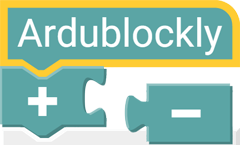
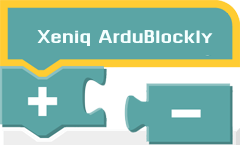
remove settings

Changed region(s): [[0.0583, 0.1103, 0.9333, 0.3862]]

diff --git a/ardublockly/index.html b/ardublockly/index.html
@@ -7,15 +7,15 @@
   <link rel="icon" href="img/favicon.ico">
   <title class="translatable_title">Ardublockly</title>
 
-  <!-- Materialize, Prettify, and Ardublockly CSS -->
+  <!-- Materialize, Prettify, and ArduArdublockly app not runningblockly CSS -->
   <link rel="stylesheet" href="materialize/materialize.css" media="screen,projection">
   <link rel="stylesheet" href="prettify/arduino.css">
   <link rel="stylesheet" href="ardublockly.css" media="screen,projection">
 
   <!-- Ardublockly - These three files contain the compress version -->
-  <!--script src="../blockly/blockly_compressed.js"></script>
-  <script src="../blockly/blocks_compressed.js"></script>
-  <script src="../blockly/arduino_compressed.js"></script-->
+<!--  <script src="../blockly/blockly_compressed.js"></script>-->
+<!--  <script src="../blockly/blocks_compressed.js"></script>-->
+<!--  <script src="../blockly/arduino_compressed.js"></script>-->
   <!-- To use the uncompressed version comment out the above and comment in the ones below -->
   <script src="../blockly/blockly_uncompressed.js"></script>
   <script src="../blockly/blocks/logic.js"></script>
@@ -69,7 +69,7 @@
     <div class="nav-wrapper container">
       <a class="show-on-large button-collapse" href="#" data-activates="slide-out" id="button-collapse"><i class="mdi-navigation-menu"></i></a>
       <a id="logo-container" class="brand-logo">
-        <span class="app_title translatable_title">Ardublockly:</span>
+        <span class="app_title translatable_title">Xeniq Ardublockly:</span>
         <!-- Sketch name editable text field -->
         <span class="sketch_name_wrapper">
           <i class="mdi-image-edit sketch_name_icon"></i>
@@ -93,26 +93,26 @@
         <li id="menu_load"><a href="#"><span class="translatable_open">Open</span><i class="mdi-file-file-upload left"></i></a></li>
         <li id="menu_save"><a href="#"><span class="translatable_save">Save</span><i class="mdi-file-file-download left"></i></a></li>
         <li id="menu_delete"><a href="#"><span class="translatable_deleteAll">Delete All</span><i class="mdi-action-delete left"></i></a></li>
-        <li id="menu_settings"><a href="#"><span class="translatable_settings">Settings</span><i class="mdi-action-settings left"></i></a></li>
-        <li id="menu_bug"><a href="https://github.com/carlosperate/ardublockly/wiki" target="_blank"><span class="translatable_documentation">Documentation</span><i class="mdi-action-help left"></i></a></li>
-        <li id="menu_bug"><a href="http://github.com/carlosperate/ardublockly/issues" target="_blank"><span class="translatable_reportBug">Report Bug</span><i class="mdi-action-bug-report left"></i></a></li>
+<!--        <li id="menu_settings"><a href="#"><span class="translatable_settings">Settings</span><i class="mdi-action-settings left"></i></a></li>-->
+<!--        <li id="menu_bug"><a href="https://github.com/carlosperate/ardublockly/wiki" target="_blank"><span class="translatable_documentation">Documentation</span><i class="mdi-action-help left"></i></a></li>-->
+<!--        <li id="menu_bug"><a href="http://github.com/carlosperate/ardublockly/issues" target="_blank"><span class="translatable_reportBug">Report Bug</span><i class="mdi-action-bug-report left"></i></a></li>-->
       </ul>
-    <li class="no-padding">
-      <ul class="collapsible collapsible-accordion">
-        <li>
-          <div class="collapsible-header"><span class="translatable_examples">Examples</span><i class="mdi-navigation-arrow-drop-down"></i></div>
-          <div class="collapsible-body">
-            <ul>
-              <li id="menu_example_1"><a href="#!">Blink</a></li>
-              <li id="menu_example_2"><a href="#!">Serial print</a></li>
-              <li id="menu_example_3"><a href="#!">Serial repeat game</a></li>
-              <li id="menu_example_4"><a href="#!">Servo knob</a></li>
-              <li id="menu_example_5"><a href="#!">Stepper knob</a></li>
-            </ul>
-          </div>
-        </li>
-      </ul>
-    </li>
+<!--    <li class="no-padding">-->
+<!--      <ul class="collapsible collapsible-accordion">-->
+<!--        <li>-->
+<!--          <div class="collapsible-header"><span class="translatable_examples">Examples</span><i class="mdi-navigation-arrow-drop-down"></i></div>-->
+<!--          <div class="collapsible-body">-->
+<!--            <ul>-->
+<!--              <li id="menu_example_1"><a href="#!">Blink</a></li>-->
+<!--              <li id="menu_example_2"><a href="#!">Serial print</a></li>-->
+<!--              <li id="menu_example_3"><a href="#!">Serial repeat game</a></li>-->
+<!--              <li id="menu_example_4"><a href="#!">Servo knob</a></li>-->
+<!--              <li id="menu_example_5"><a href="#!">Stepper knob</a></li>-->
+<!--            </ul>-->
+<!--          </div>-->
+<!--        </li>-->
+<!--      </ul>-->
+<!--    </li>-->
     <li class="no-padding side-menu-end">&nbsp;</li>
   </ul>
 
@@ -200,20 +200,20 @@
   </div>
 
   <!-- IDE Output content -->
-  <div class="ide_output_wrapper">
-    <ul class="collapsible ide_output_collapsible" data-collapsible="expandable">
-      <li>
-        <div id="ide_output_collapsible_header" class="collapsible-header ide_output_header_normal">
-          <i class="mdi-action-swap-vert Medium" style="font-size: 2.2rem;"></i>
-          <span class="translatable_arduinoOpMainTitle">Arduino IDE output</span>
-        </div>
-        <div class="collapsible-body">
-          <div id="content_ide_output" class="content"></div>
-        </div>
-      </li>
-    </ul>
-  </div>
-  <div id="ide_output_spacer"></div>
+<!--  <div class="ide_output_wrapper">-->
+<!--    <ul class="collapsible ide_output_collapsible" data-collapsible="expandable">-->
+<!--      <li>-->
+<!--        <div id="ide_output_collapsible_header" class="collapsible-header ide_output_header_normal">-->
+<!--          <i class="mdi-action-swap-vert Medium" style="font-size: 2.2rem;"></i>-->
+<!--          <span class="translatable_arduinoOpMainTitle">Arduino IDE output</span>-->
+<!--        </div>-->
+<!--        <div class="collapsible-body">-->
+<!--          <div id="content_ide_output" class="content"></div>-->
+<!--        </div>-->
+<!--      </li>-->
+<!--    </ul>-->
+<!--  </div>-->
+<!--  <div id="ide_output_spacer"></div>-->
 
   <!-- Settings: Displayed as a Materialize Modal -->
   <div id="settings_dialog" class="modal modal-fixed-footer">
@@ -293,22 +293,22 @@
   </div>
 
   <!-- Local Modal to be shown if Ardublockly Server is not running. -->
-  <div id="not_running_dialog" class="modal">
-    <div class="modal-content">
-      <div>
-        <h4 id="gen_alert_title"><span class="translatable_noServerTitle">Ardublockly app not running</span></h4>
-      </div>
-      <div class="translatable_noServerBody">
-        <p>For all the Ardublockly features to be enabled, the Ardublockly desktop application must be running locally on your computer.</p>
-        <p>If you are using an online version you will not be able to configure the settings nor load the blocks code into an Arduino.</p>
-        <p>Installation instruction can be found in the <a href="https://github.com/carlosperate/ardublockly">Ardublockly repository</a>.</p>
-        <p>If you have Ardublockly already installed, make sure the application is running correctly.</p>
-      </div>
-    </div>
-    <div class="modal-footer">
-      <a id="gen_alert_ok_link" href="#" class="waves-effect btn-flat modal-close"><span class="translatable_okay">Okay</span></a>
-    </div>
-  </div>
+<!--  <div id="not_running_dialog" class="modal">-->
+<!--    <div class="modal-content">-->
+<!--      <div>-->
+<!--        <h4 id="gen_alert_title"><span class="translatable_noServerTitle">Ardublockly app not running</span></h4>-->
+<!--      </div>-->
+<!--      <div class="translatable_noServerBody">-->
+<!--        <p>For all the Ardublockly features to be enabled, the Ardublockly desktop application must be running locally on your computer.</p>-->
+<!--        <p>If you are using an online version you will not be able to configure the settings nor load the blocks code into an Arduino.</p>-->
+<!--        <p>Installation instruction can be found in the <a href="https://github.com/carlosperate/ardublockly">Ardublockly repository</a>.</p>-->
+<!--        <p>If you have Ardublockly already installed, make sure the application is running correctly.</p>-->
+<!--      </div>-->
+<!--    </div>-->
+<!--    <div class="modal-footer">-->
+<!--      <a id="gen_alert_ok_link" href="#" class="waves-effect btn-flat modal-close"><span class="translatable_okay">Okay</span></a>-->
+<!--    </div>-->
+<!--  </div>-->
 
   <!-- Desktop version of Ardublockly JS, needs to be loaded first. -->
   <script src="ardublockly_desktop.js"></script>

diff --git a/ardublockly/ardublockly.js b/ardublockly/ardublockly.js
@@ -28,7 +28,7 @@ Ardublockly.init = function() {
 
   // Hackish way to check if not running locally
   if (document.location.hostname != 'localhost') {
-    Ardublockly.openNotConnectedModal();
+//    Ardublockly.openNotConnectedModal();
     console.log('Offline app modal opened as non localhost host name found: ' +
                 document.location.hostname)
   }
@@ -54,31 +54,7 @@ Ardublockly.bindActionFunctions = function() {
     Ardublockly.discardAllBlocks();
     $('.button-collapse').sideNav('hide');
   });
-  Ardublockly.bindClick_('menu_settings', function() {
-    Ardublockly.openSettings();
-    $('.button-collapse').sideNav('hide');
-  });
-  Ardublockly.bindClick_('menu_example_1', function() {
-    Ardublockly.loadServerXmlFile('../examples/blink.xml');
-    $('.button-collapse').sideNav('hide');
-  });
-  Ardublockly.bindClick_('menu_example_2', function() {
-    Ardublockly.loadServerXmlFile('../examples/serial_print_ascii.xml');
-    $('.button-collapse').sideNav('hide');
-  });
-  Ardublockly.bindClick_('menu_example_3', function() {
-    Ardublockly.loadServerXmlFile('../examples/serial_repeat_game.xml');
-    $('.button-collapse').sideNav('hide');
-  });
-  Ardublockly.bindClick_('menu_example_4', function() {
-    Ardublockly.loadServerXmlFile('../examples/servo_knob.xml');
-    $('.button-collapse').sideNav('hide');
-  });
-  Ardublockly.bindClick_('menu_example_5', function() {
-    Ardublockly.loadServerXmlFile('../examples/stepper_knob.xml');
-    $('.button-collapse').sideNav('hide');
-  });
-
+//
   // Floating buttons
   Ardublockly.bindClick_('button_ide_large', function() {
     Ardublockly.ideButtonLargeAction();

diff --git a/ardublockly/ardublockly_design.js b/ardublockly/ardublockly_design.js
@@ -53,10 +53,10 @@ Ardublockly.bindDesignEventListeners = function() {
   document.getElementById('xml_collapsible_header').addEventListener(
       'click', Ardublockly.buttonLoadXmlCodeDisplay);
   // Toggle the content height on click to the IDE output collapsible header
-  document.getElementById('ide_output_collapsible_header').addEventListener(
-      'click', function() {
-        Ardublockly.contentHeightToggle();
-      });
+//  document.getElementById('ide_output_collapsible_header').addEventListener(
+//      'click', function() {
+//        Ardublockly.contentHeightToggle();
+//      });
   // Display/hide the additional IDE buttons when mouse over/out of play button
   $('#button_ide_large').mouseenter(function() {
       Ardublockly.showExtraIdeButtons(true);
@@ -300,12 +300,13 @@ Ardublockly.materialAlert = function(title, body, confirm, callback) {
 
 /** Opens the modal that displays the "not connected to server" message. */
 Ardublockly.openNotConnectedModal = function() {
-  $('#not_running_dialog').openModal({
-    dismissible: true,
-    opacity: .5,
-    in_duration: 200,
-    out_duration: 250
-  });
+    console.log('')
+//  $('#not_running_dialog').openModal({
+//    dismissible: true,
+//    opacity: .5,
+//    in_duration: 200,
+//    out_duration: 250
+//  });
 };
 
 /** Opens the modal that displays the Settings. */

diff --git a/ardublockly/classic/index.html b/ardublockly/classic/index.html
@@ -4,7 +4,7 @@
   <meta charset="utf-8">
   <meta name="google" value="notranslate">
   <link rel="icon" href="../img/favicon.ico">
-  <title>Ardublockly: Arduino Code</title>
+  <title>Xeniq Ardublockly: Arduino Code</title>
   <link rel="stylesheet" href="ardublockly_classic.css">
   <!-- Ardublockly - For now uncompressed files -->
   <!--script src="../../blockly/blockly_compressed.js"></script-->
